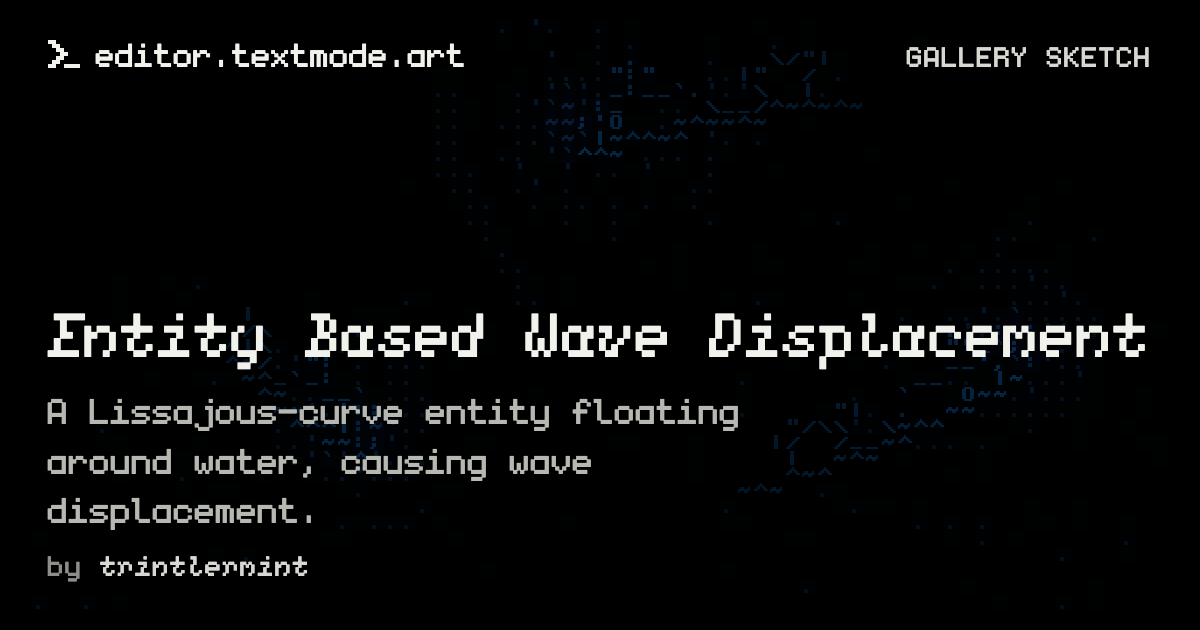
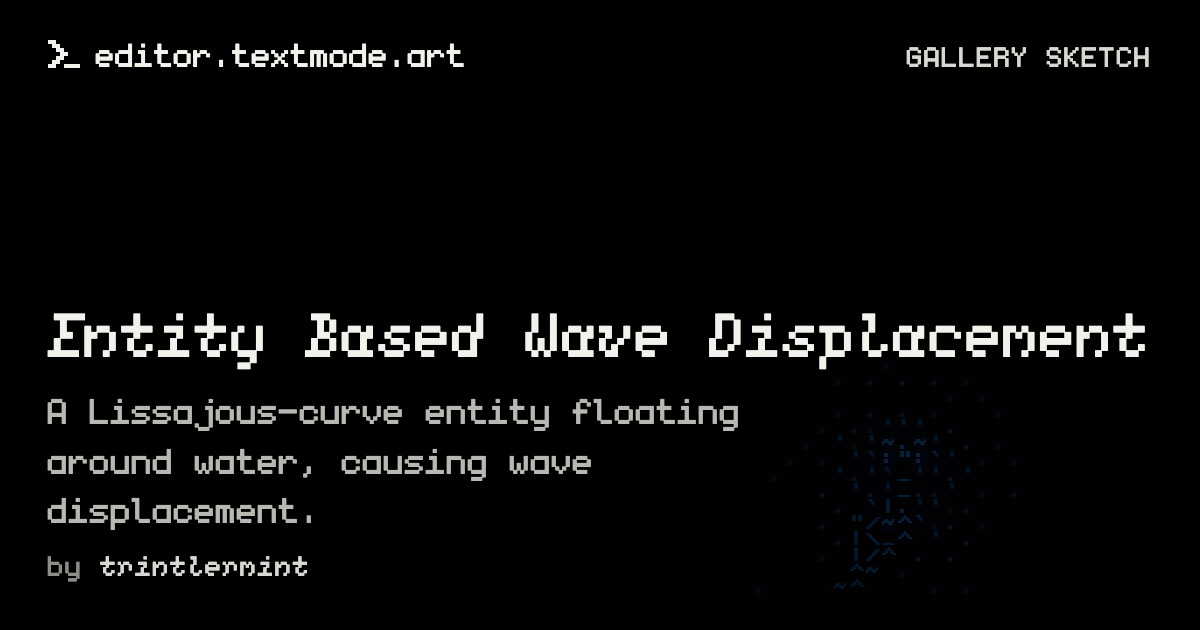
refactor: original whale sketch

diff --git a/sketches/entity-wave-prop/sketch.js b/sketches/entity-wave-prop/sketch.js
@@ -1,7 +1,5 @@
 let cols, rows, cur, prev;
 
-// WHALE_COUNT: number of whales swimming simultaneously (change this value to add/remove whales)
-const WHALE_COUNT = 3;
 // DAMP: wave damping factor. closer to 1 implies that longer-lasting ripples, lower means that ripples die quickly
 const DAMP = 0.955;
 const CHARS = " .'`~:;-=+*#%&@";
@@ -32,31 +30,16 @@ function precomputeCols(art) {
 
 const whaleData = precomputeCols(WHALE);
 
+let whaleTrail = [];
 // TRAIL_LEN: how many past positions to remember. longer = longer visible body, shorter = stubby whale
 const TRAIL_LEN = 80;
-let whales = [];
-
-function initWhales() {
-  whales = [];
-  for (let i = 0; i < WHALE_COUNT; i++) {
-    whales.push({
-      trail: [],
-      freqX1: 0.6 + ((i * 0.23) % 0.5),
-      freqX2: 1.7 + ((i * 0.41) % 0.7),
-      freqY1: 0.4 + ((i * 0.19) % 0.4),
-      freqY2: 1.5 + ((i * 0.37) % 0.6),
-      phaseX: i * 2.1,
-      phaseY: i * 1.7 + 0.8,
-    });
-  }
-}
 
 function init() {
   cols = t.grid.cols;
   rows = t.grid.rows;
   cur = new Float32Array(cols * rows);
   prev = new Float32Array(cols * rows);
-  initWhales();
+  whaleTrail = [];
 }
 
 function drop(x, y, force) {
@@ -83,36 +66,34 @@ t.draw(() => {
   if (!cur) return;
   const time = t.frameCount / 60;
 
-  for (const w of whales) {
-    // lissajous curve spanning the canvas, see: https://en.wikipedia.org/wiki/Lissajous_curve.
-    // frequency multipliers (0.7, 1.9, 0.5, 1.7): change the shape of the swimming path.
-    //   try integer ratios for closed loops (e.g. 1.0 and 2.0), irrational combs for drifting paths
-    // amplitude multipliers (0.38, 0.12, 0.35, 0.1): how far the whale swims from center (pls look at curve to understand).
-    //   larger values use more of the screen, smaller stays near the middle
-    //
-    const sx =
-      Math.sin(time * w.freqX1 + w.phaseX) * (cols * 0.38) +
-      Math.sin(time * w.freqX2 + w.phaseX * 1.5) * (cols * 0.12);
-    const sy =
-      Math.cos(time * w.freqY1 + w.phaseY) * (rows * 0.35) +
-      Math.cos(time * w.freqY2 + w.phaseY * 1.3) * (rows * 0.1);
+  // lissajous curve spanning the canvas, see: https://en.wikipedia.org/wiki/Lissajous_curve.
+  // frequency multipliers (0.7, 1.9, 0.5, 1.7): change the shape of the swimming path.
+  //   try integer ratios for closed loops (e.g. 1.0 and 2.0), irrational combs for drifting paths
+  // amplitude multipliers (0.38, 0.12, 0.35, 0.1): how far the whale swims from center (pls look at curve to understand).
+  //   larger values use more of the screen, smaller stays near the middle
+  //
+  const sx =
+    Math.sin(time * 0.7) * (cols * 0.38) +
+    Math.sin(time * 1.9 + 1.2) * (cols * 0.12);
+  const sy =
+    Math.cos(time * 0.5) * (rows * 0.35) +
+    Math.cos(time * 1.7 + 0.8) * (rows * 0.1);
 
-    const headX = cols / 2 + sx;
-    const headY = rows / 2 + sy;
+  const headX = cols / 2 + sx;
+  const headY = rows / 2 + sy;
 
-    w.trail.unshift({ x: headX, y: headY });
-    if (w.trail.length > TRAIL_LEN) w.trail.length = TRAIL_LEN;
+  whaleTrail.unshift({ x: headX, y: headY });
+  if (whaleTrail.length > TRAIL_LEN) whaleTrail.length = TRAIL_LEN;
 
-    // head drop: frequency (% 2) and force (4) control how strong the bow wave (big thingie in front of the whale) is
-    if (t.frameCount % 2 === 0) {
-      drop(headX, headY, 4);
-    }
-    // create a secondary ripple behind the whale.
-    // the index (30) controls how far back the wabe forms; force (1.5) controls its strength
-    if (w.trail.length > 10 && t.frameCount % 4 === 0) {
-      const tail = w.trail[Math.min(w.trail.length - 1, 30)];
-      drop(tail.x, tail.y, 1.5);
-    }
+  // head drop: frequency (% 2) and force (4) control how strong the bow wave (big thingie in front of the whale) is
+  if (t.frameCount % 2 === 0) {
+    drop(headX, headY, 4);
+  }
+  // create a secondary ripple behind the whale.
+  // the index (30) controls how far back the wabe forms; force (1.5) controls its strength
+  if (whaleTrail.length > 10 && t.frameCount % 4 === 0) {
+    const tail = whaleTrail[Math.min(whaleTrail.length - 1, 30)];
+    drop(tail.x, tail.y, 1.5);
   }
 
   // simulate wave propogation (dissapation of waves)
@@ -175,32 +156,29 @@ t.draw(() => {
   // spacing: distance between trail samples per art column.
   // higher gives creatur more stretched/spread body, lower = compact
   const spacing = 1.8;
+  for (let col = 0; col < artCols.length; col++) {
+    const trailPos = Math.floor(col * spacing);
+    if (trailPos >= whaleTrail.length) break;
+    const pos = whaleTrail[trailPos];
+    // tail whale the 0.7 controls how much the tail dims. 0-1: no fade -> tail dark
+    const fade = 1.0 - (col / artCols.length) * 0.7;
 
-  for (const w of whales) {
-    for (let col = 0; col < artCols.length; col++) {
-      const trailPos = Math.floor(col * spacing);
-      if (trailPos >= w.trail.length) break;
-      const pos = w.trail[trailPos];
-      // tail whale the 0.7 controls how much the tail dims. 0-1: no fade -> tail dark
-      const fade = 1.0 - (col / artCols.length) * 0.7;
+    for (const { ch, vert } of artCols[col]) {
+      const gx = Math.round(pos.x);
+      const gy = Math.round(pos.y) + vert;
 
-      for (const { ch, vert } of artCols[col]) {
-        const gx = Math.round(pos.x);
-        const gy = Math.round(pos.y) + vert;
+      // whale color currently gives a base brightness (160) and has ratios to set rgb, change to your liking
+      const bright = 160 * fade;
+      const r = bright * 0.12;
+      const g = Math.min(bright * 0.55 + 40, 190);
+      const b = Math.min(bright + 70, 255);
 
-        // whale color currently gives a base brightness (160) and has ratios to set rgb, change to your liking
-        const bright = 160 * fade;
-        const r = bright * 0.12;
-        const g = Math.min(bright * 0.55 + 40, 190);
-        const b = Math.min(bright + 70, 255);
-
-        t.char(ch);
-        t.charColor(r, g, b);
-        t.cellColor(0, Math.floor(fade * 3), Math.floor(fade * 10));
-        t.translate(gx - hc, gy - hr);
-        t.rect(1, 1);
-        t.translate(-(gx - hc), -(gy - hr));
-      }
+      t.char(ch);
+      t.charColor(r, g, b);
+      t.cellColor(0, Math.floor(fade * 3), Math.floor(fade * 10));
+      t.translate(gx - hc, gy - hr);
+      t.rect(1, 1);
+      t.translate(-(gx - hc), -(gy - hr));
     }
   }
 });
